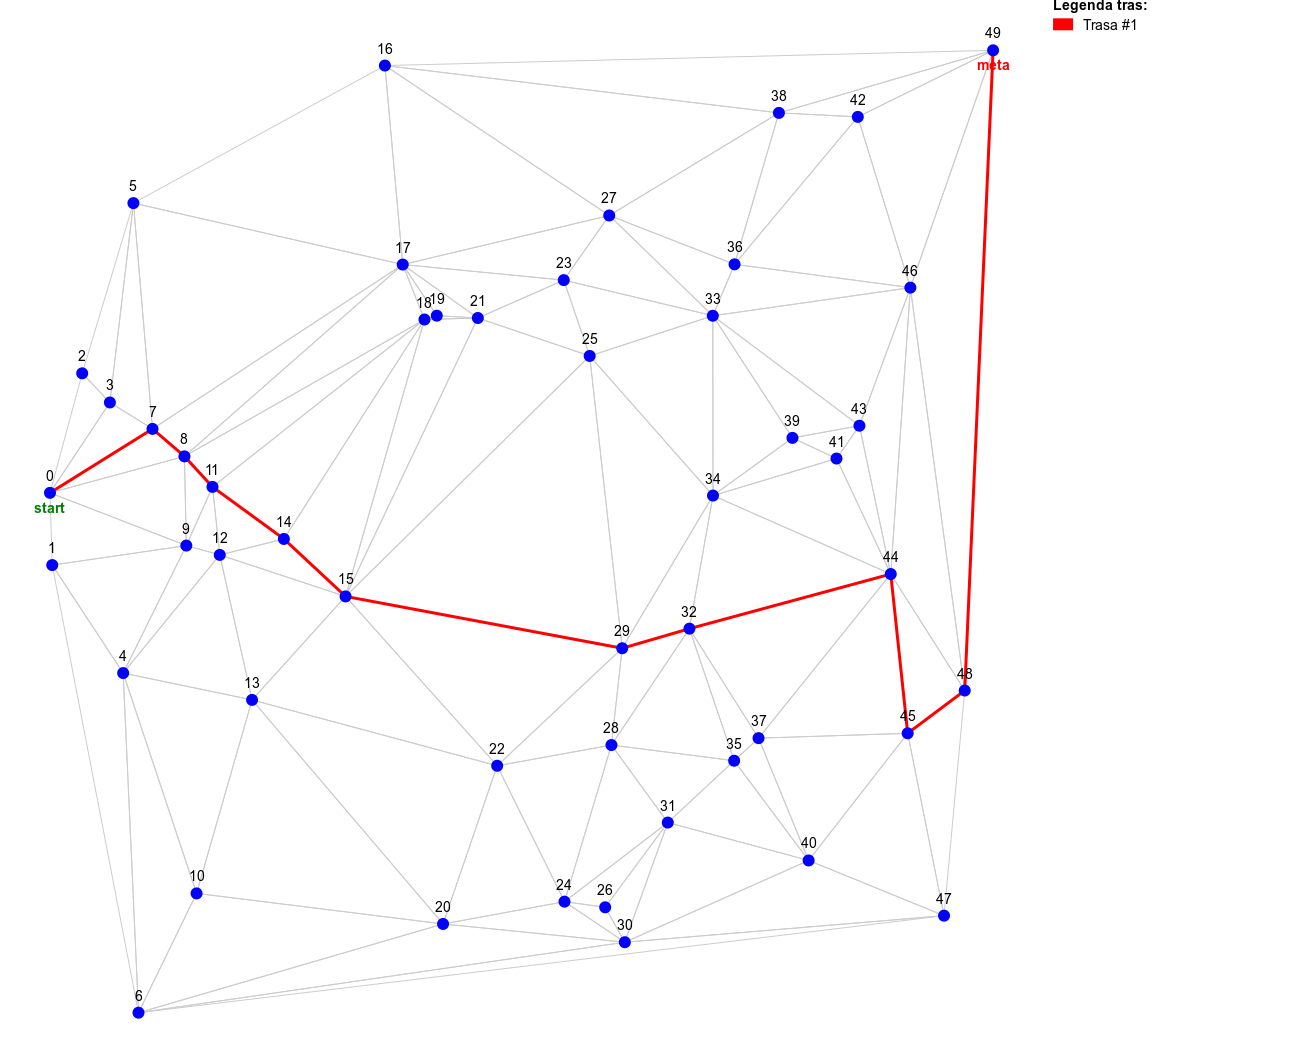
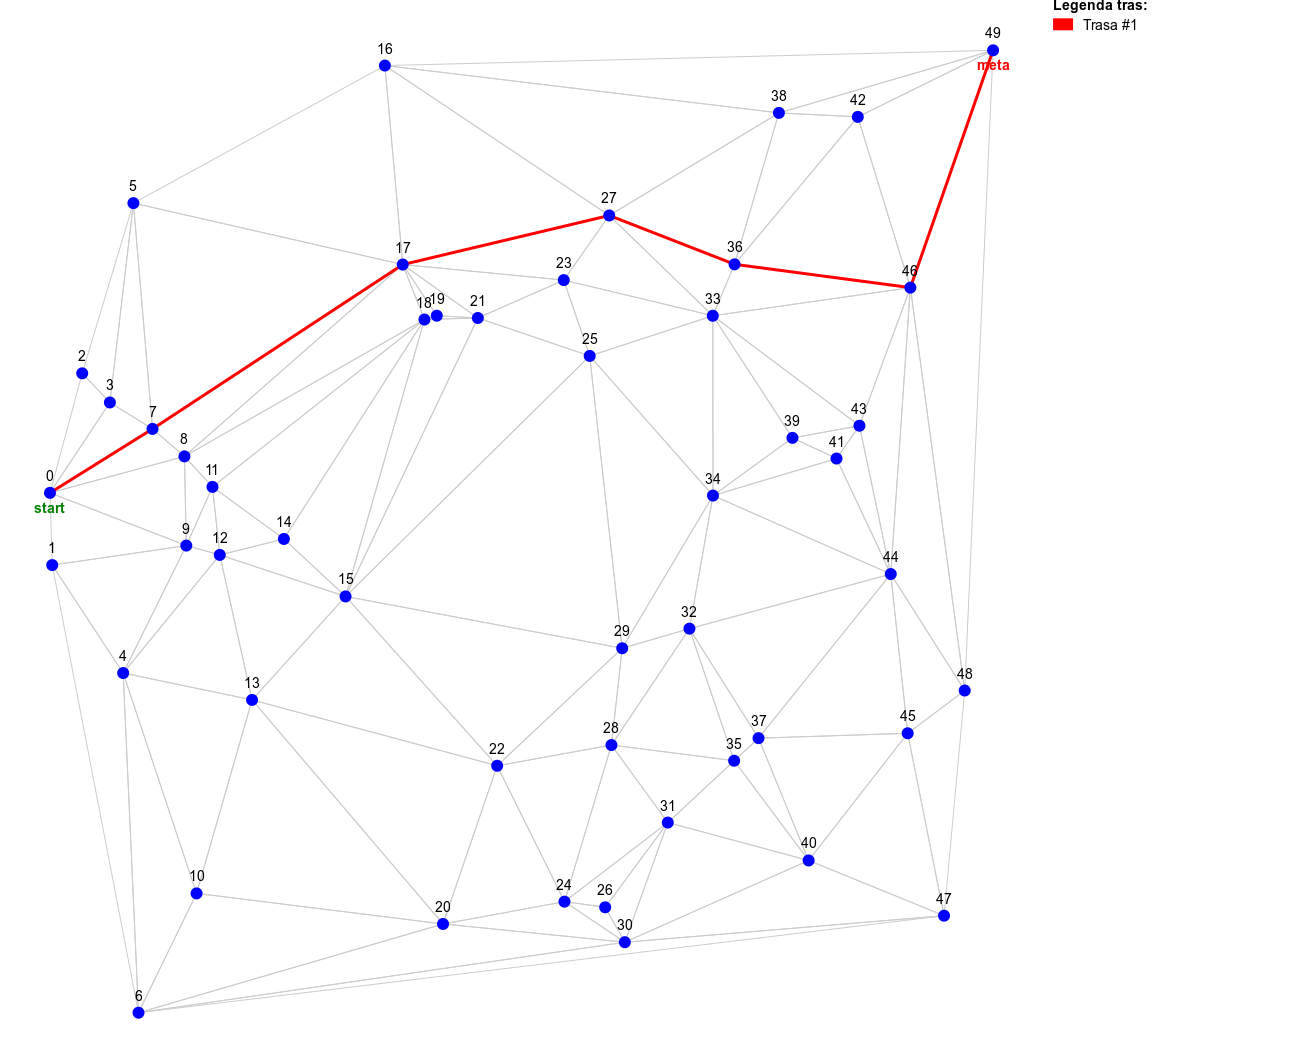
Edited docs

diff --git a/latex-docs/main.tex b/latex-docs/main.tex
@@ -95,25 +95,18 @@ Projekt składa się z trzech głównych komponentów:
 
 \subsection*{Opis komponentów}
 
-\paragraph{Algorytm}
-
-Poniższe pliki zawierają implementację heurystycznego podejścia Clarke’a-Wrighta:
-\begin{itemize}
-    \item \texttt{clarke\_wright\_separate\_depots()} -- podstawowy algorytm łączący trasy klientów w oparciu o listę oszczędności,
-    \item \texttt{generate\_routes\_with\_variants()} -- rozszerzenie algorytmu o możliwość tworzenia wielu wariantów przez losowe permutacje listy oszczędności,
-    \item \texttt{calculate\_route\_distance\_separate\_depots()} -- obliczanie długości trasy z uwzględnieniem osobnych magazynów początkowego i końcowego.
-\end{itemize}
-
 \paragraph{Solver: \texttt{solver.cpp}}
 
-Główna część odpowiedzialna za wykonanie heurystyki i przygotowanie tras:
+Moduł odpowiedzialny za wyznaczanie wielu alternatywnych tras pomiędzy punktami startowym a końcowym, z wykorzystaniem m.in. algorytmu Clarke’a-Wrighta oraz podejścia bazującego na Dijkstrze. Główne funkcjonalności:
 \begin{itemize}
-    \item inicjalizuje dane wejściowe i macierz odległości przy użyciu algorytmu Dijkstry,
-    \item generuje listę klientów i uruchamia algorytm Clarke’a-Wrighta z wariantami,
-    \item wybiera najlepsze trasy (sortując po długości i liczbie punktów),
-    \item rekonstruuje pełne ścieżki przy użyciu macierzy rodziców,
-    \item eksportuje wynikowe krawędzie do dalszej wizualizacji.
+    \item implementacja algorytmu oszczędności Clarke’a-Wrighta do łączenia tras początkowych na podstawie oszczędności dystansu,
+    \item losowe modyfikacje wag krawędzi (szum) oraz penalizacja już wykorzystanych węzłów w celu zwiększenia różnorodności tras,
+    \item porównywanie tras przy użyciu współczynnika podobieństwa Jaccarda i odrzucanie zbyt podobnych wyników,
+    \item alternatywne wyznaczanie ścieżek przy użyciu algorytmu Dijkstry na zmodyfikowanym grafie z kosztami zależnymi od „omijanych” węzłów,
+    \item stopniowe generowanie wielu tras z mechanizmami resetowania używanych węzłów, by uniknąć zablokowania procesu,
+    \item końcowa filtracja i wybór najlepszych tras oraz ich długości, wypisywanych na wyjściu.
 \end{itemize}
+
 
 \paragraph{Wizualizacja: \texttt{visualisation.cpp}}
 
@@ -325,41 +318,13 @@ W celu przetestowania poprawności działania i jakości generowanych tras, prze
 \end{enumerate}
 
 
-\subsection*{Najlepsze trasy}
-
-\begin{enumerate}
-    \item \textbf{Trasa \#1:}\\
-    0 → 2 → 5 → 16 → 17 → 18 → 19 → 21 → 23 → 27 → 38 → 42 → 49\\
-    \textbf{Długość:} 60{,}10
-
-    \item \textbf{Trasa \#2:}\\
-    0 → 9 → 12 → 15 → 25 → 33 → 46 → 49\\
-    \textbf{Długość:} 49{,}47
-
-    \item \textbf{Trasa \#3:}\\
-    0 → 7 → 17 → 27 → 36 → 46 → 49\\
-    \textbf{Długość:} 47{,}84
-
-    \item \textbf{Trasa \#4:}\\
-    0 → 7 → 8 → 11 → 18 → 19 → 21 → 25 → 33 → 36 → 38 → 42 → 49\\
-    \textbf{Długość:} 48{,}80
-
-    \item \textbf{Trasa \#5:}\\
-    0 → 1 → 9 → 12 → 14 → 15 → 21 → 23 → 27 → 38 → 42 → 49\\
-    \textbf{Długość:} 52{,}10
-
-    \item \textbf{Trasa \#6:}\\
-    0 → 1 → 9 → 12 → 14 → 15 → 25 → 33 → 36 → 46 → 49\\
-    \textbf{Długość:} 54{,}00
-\end{enumerate}
-
 \subsection*{Wizualizacja tras}
 
 Dla każdej z wyznaczonych tras wygenerowano wizualizacje w formacie SVG. Kolory tras pozwalają na łatwe ich rozróżnienie.
 
 \begin{figure}[H]
     \centering
-    \includegraphics[width=1\linewidth]{model.png}
+    \includegraphics[width=1\linewidth]{clear.png}
     \caption{Wizualizacja grafu}
     \label{fig:enter-label}
 \end{figure}
@@ -520,7 +485,7 @@ Dla każdej z wyznaczonych tras wygenerowano wizualizacje w formacie SVG. Kolory
 
 \subsection*{Uwagi końcowe}
 
-Eksperyment potwierdził, że heurystyka Clarke’a-Wrighta potrafi wyznaczyć dobre jakościowo trasy, nawet w przypadku niestandardowego modelu z osobnym punktem startu i mety. Różnice w długości pomiędzy najlepszymi trasami wynikały z losowych permutacji listy oszczędności, co pokazuje elastyczność algorytmu.
+Eksperyment potwierdził, że zmodyfikowana heurystyka Clarke’a-Wrighta, urozmaicona o elementy losowości, potrafi wyznaczyć trasy pokrywające część punktów, nie powatrzając przy tym wykorzytsanych już raz krawędzi, nawet w przypadku niestandardowego modelu z osobnym punktem startu i mety.
 \section{Podsumowanie}
 
 Celem projektu było zaimplementowanie oraz przetestowanie heurystycznego rozwiązania problemu trasowania pojazdów (VRP) z oddzielnym punktem startu i końcowego powrotu. W tym celu wykorzystano zmodyfikowaną wersję algorytmu Clarke’a-Wrighta, który pozwala na skuteczne wyznaczanie tras w sposób szybki i skalowalny.
@@ -529,10 +494,10 @@ Na podstawie zebranych wyników oraz przeprowadzonych eksperymentów można sfor
 
 \begin{itemize}
     \item Algorytm oszczędnościowy okazał się skutecznym narzędziem do szybkiego generowania tras nawet w dużej instancji problemu (48 klientów).
-    \item Dzięki implementacji wariantów z losową permutacją listy oszczędności, możliwe było znalezienie tras lepszych niż w podejściu deterministycznym.
+    \item Dzięki implementacji wariantów z losową permutacją listy oszczędności oraz dodanym szumem, możliwe było znalezienie tras lepszych niż w podejściu deterministycznym.
     \item Struktura rozwiązania została zaprojektowana w sposób modularny, co umożliwia łatwą rozbudowę – zarówno pod kątem integracji z dokładnym solverem (np. CPLEX), jak i zastosowania innych heurystyk.
     \item Zastosowanie triangulacji i eksportu do formatu SVG umożliwiło przejrzystą wizualizację wyników, co znacznie ułatwia interpretację tras.
-    \item Najlepsza trasa osiągnęła łączny koszt równy 221{,}302, przy pełnym pokryciu zbioru klientów – co jest wynikiem bardzo konkurencyjnym jak na rozwiązanie heurystyczne.
+    \item Najlepsza trasa pokryła 15 z 48 punktów.
 \end{itemize}
 
 W kolejnych etapach projekt może zostać rozszerzony o:
